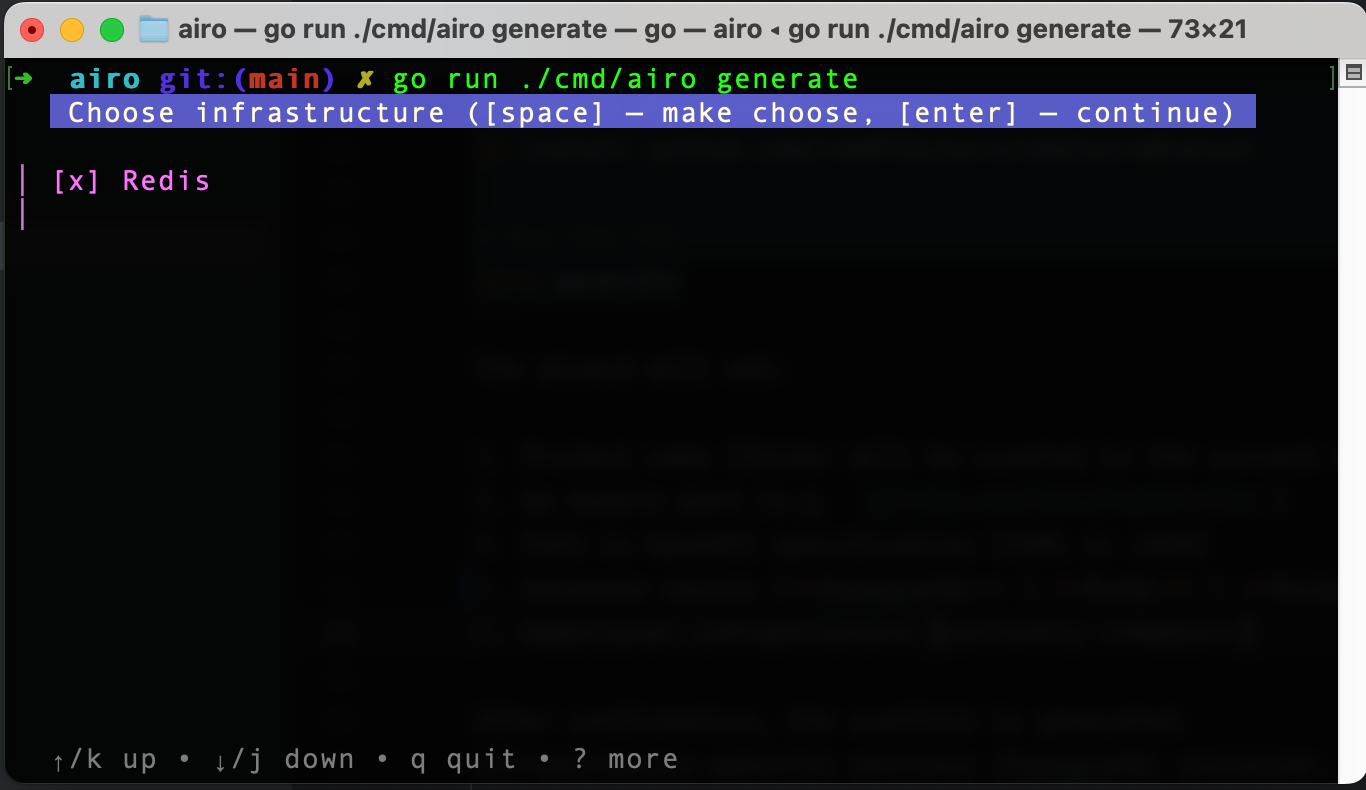
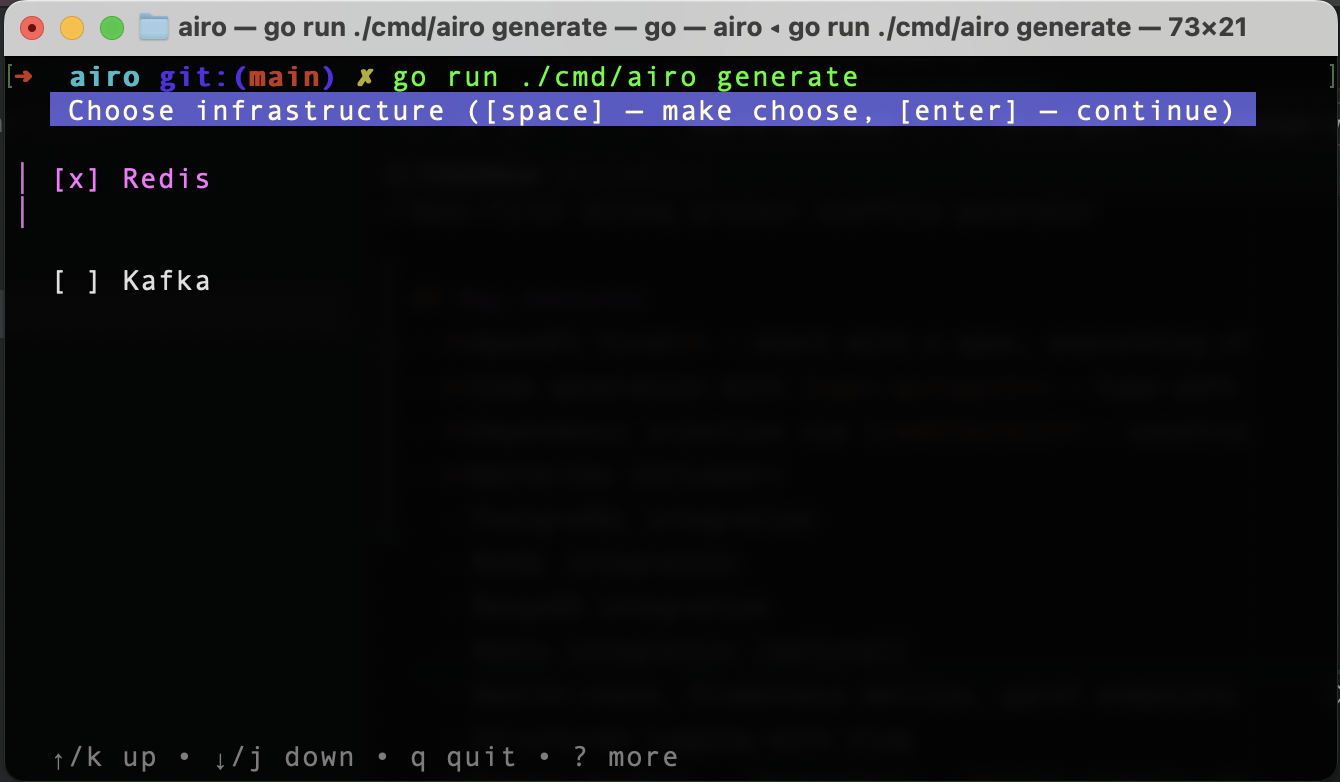
README.md updated.

diff --git a/README.md b/README.md
@@ -11,6 +11,7 @@ Spec-first Golang project scaffold generator
   - MySQL integration
   - MongoDB integration
   - Redis integration (optional)
+  - Kafka integration (optional)
   - Health-check, Prometheus metrics, pprof endpoints
   - Structured logging with slog
 - **Docker-ready** – `Dockerfile`, `docker-compose.yml`, `Makefile` are scaffolded for you.
@@ -32,7 +33,7 @@ The wizard will ask:
 2. Go module path (e.g. `github.com/acme/myservice`)
 3. Path to OpenAPI specification (YAML or JSON)
 4. Database choice (**PostgreSQL** \ **MySQL** \ **MongoDB**)
-5. Additional infrastructure (currently **Redis**)
+5. Additional infrastructure (**Redis** \ **Kafka**)
 
 Screenshots:
 
